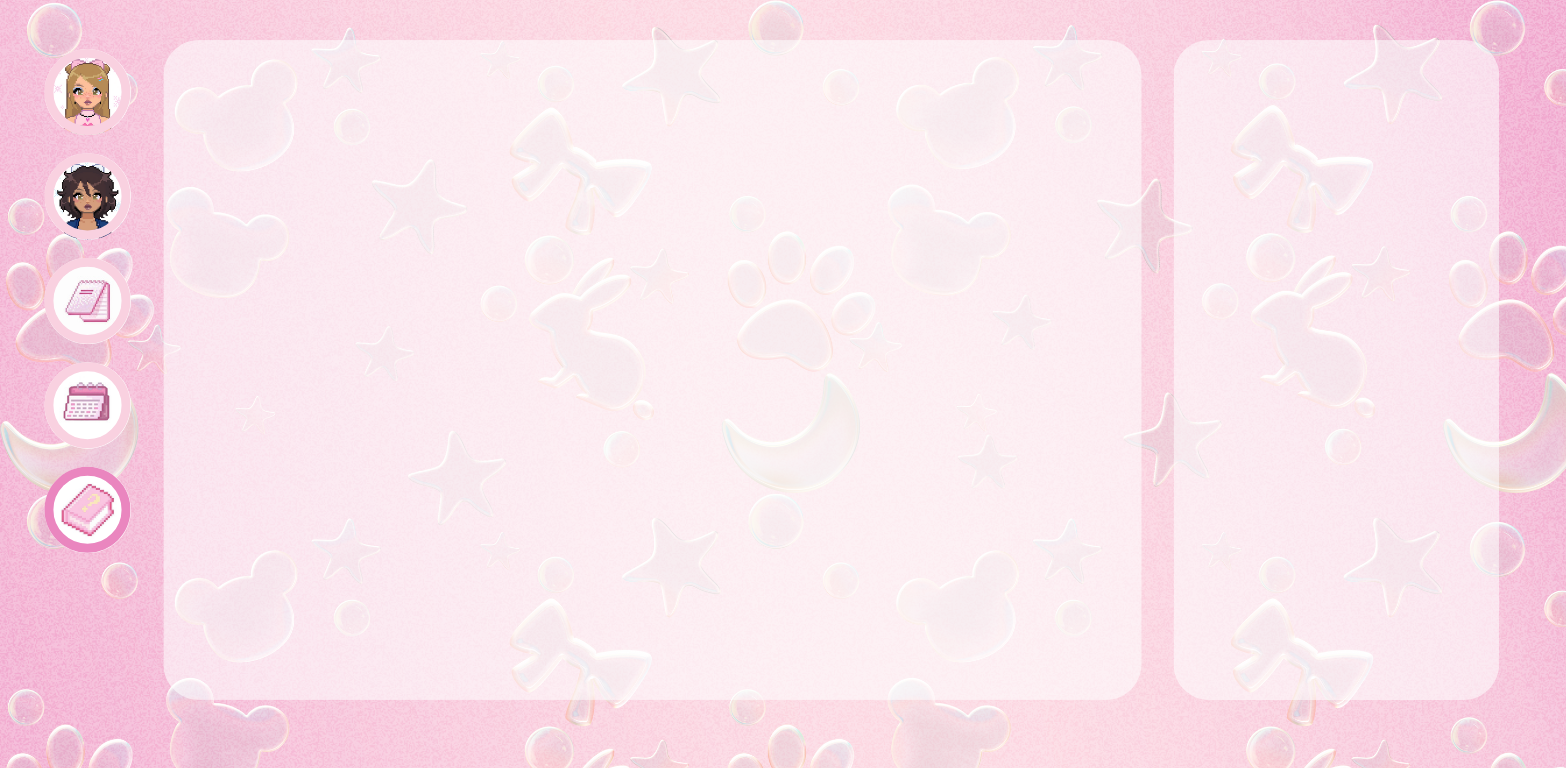
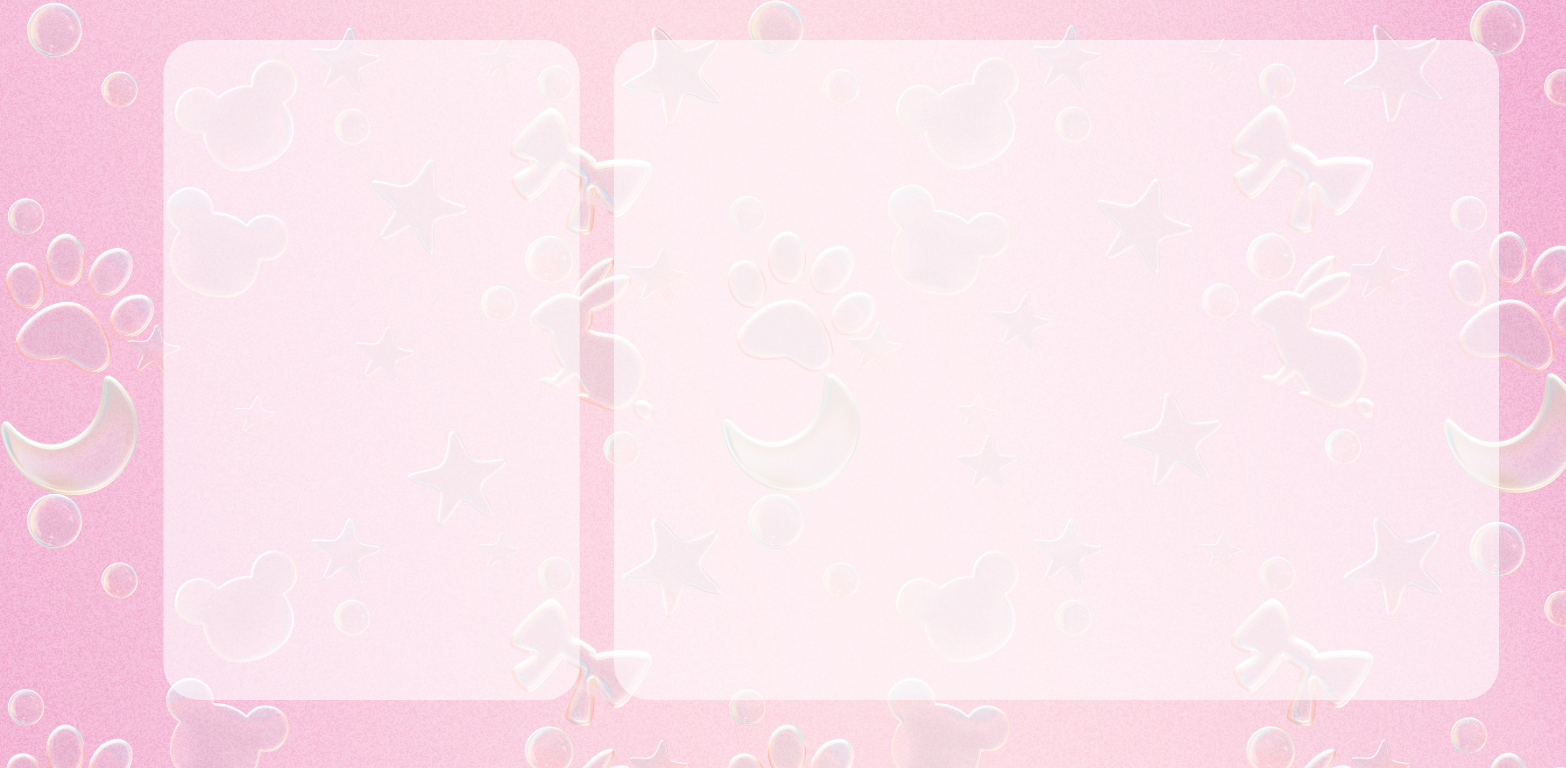
updated journal and chart

diff --git a/journal.js b/journal.js
@@ -1,0 +1,154 @@
+import {
+    initializeApp
+} from "https://www.gstatic.com/firebasejs/11.9.1/firebase-app.js";
+
+import {
+    getAuth,
+    onAuthStateChanged,
+    signOut,
+    GoogleAuthProvider
+} from "https://www.gstatic.com/firebasejs/11.9.1/firebase-auth.js";
+
+import {
+    getFirestore,
+    collection,
+    getDocs,
+    query,
+    where,
+    updateDoc,
+    serverTimestamp,
+    doc, deleteDoc, orderBy, limit
+} from "https://www.gstatic.com/firebasejs/11.9.1/firebase-firestore.js";
+
+const firebaseConfig = {
+    apiKey: "AIzaSyB-qQP6MciVV7dKTeeu-JoBnjOjFki_8wg",
+    authDomain: "junebestiebot.firebaseapp.com",
+    projectId: "junebestiebot",
+    storageBucket: "junebestiebot.firebasestorage.app",
+    messagingSenderId: "377203530674",
+    appId: "1:377203530674:web:2443d67ec3430f73e662ab",
+};
+
+const app = initializeApp(firebaseConfig);
+const auth = getAuth(app);
+const db = getFirestore(app);
+const provider = new GoogleAuthProvider();
+
+async function loadJournal() {
+    const userId = auth.currentUser.uid;
+    const todayDate = new Date().toISOString().split('T')[0];
+    const q = query(collection(db, "mood"), where("ID", "==", userId), where("date", "==", todayDate));
+    const querySnapshot = await getDocs(q);
+
+    const container = document.getElementById("dayOverview");
+    container.innerHTML = ""; // clear previous content
+
+    if (querySnapshot.empty) {
+        container.textContent = "No journal entry for today.";
+        return;
+    }
+
+    querySnapshot.forEach((docSnap) => {
+        const overview = docSnap.data();
+
+        const overviewEl = document.createElement("div");
+        overviewEl.classList = "moodJournal";
+
+        // Title
+        const title = document.createElement("h2");
+        title.textContent = "Today's Overview";
+        overviewEl.appendChild(title);
+
+        // Mood
+        const mood = document.createElement("p");
+        mood.innerHTML = `<strong>Emotional Stress:</strong> ${overview.emotionIntensity || "Not specified"}`;
+        overviewEl.appendChild(mood);
+
+        // Intensity
+        const intensity = document.createElement("p");
+        intensity.innerHTML = `<strong>Physical Stress:</strong> ${overview.physicalIntensity || "N/A"}`;
+        overviewEl.appendChild(intensity);
+
+        // Summary
+        const summary = document.createElement("p");
+        summary.innerHTML = `<strong>Day Summary:</strong> ${overview.daySummary || "No summary provided."}`;
+        overviewEl.appendChild(summary);
+
+        // Optional: timestamp
+        const time = document.createElement("p");
+        time.innerHTML = `<small>${overview.updatedAt?.toDate().toLocaleString() || ""}</small>`;
+        overviewEl.appendChild(time);
+
+        container.appendChild(overviewEl);
+
+    });
+}
+
+
+window.authSignOut = function () {
+    signOut(auth)
+        .then(() => {
+            window.location.href = "index.html";
+        })
+        .catch((error) => {
+            console.error("Sign out error:", error);
+        });
+};
+
+onAuthStateChanged(auth, (user) => {
+    if (user) {
+        console.log("✅ Logged in as:", user.email);
+        loadJournal()
+        moodData()
+    } else {
+        console.log("❌ No user logged in");
+        window.location.href = "index.html";
+    }
+});
+
+async function moodData(){
+    const q = query(
+        collection(db, "mood"),
+        where("ID", "==", auth.currentUser.uid),
+        orderBy("date", "asc"),
+        limit(30)
+    );
+
+    const snapshot = await getDocs(q);
+
+    const data = [];
+
+    snapshot.forEach((doc) =>{
+        const entry = doc.data();
+        data.push({date: entry.date, moodScore: entry.emotionIntensity});
+    });
+
+    drawMoodGraph(data);
+
+}
+
+function drawMoodGraph(){
+    const ctx = document.getElementById('myChart');
+
+    new Chart(ctx, {
+        type: 'line',
+        data: {
+            labels: data.map(d=>d.date),
+            datasets: [{
+                label: 'Mood Over Time',
+                data: data.map(d=> d.moodScore),
+                borderColor: '#ff6fa1',
+                fill: false,
+                tension: 0.3,
+            }]
+        },
+        options: {
+            scales: {
+                y: {
+                    suggestedMin: 1,
+                    suggestedMax: 10
+                }
+            }
+        }
+    });
+}

diff --git a/journalPage.html b/journalPage.html
@@ -6,6 +6,7 @@
     <title>Journal</title>
     <link rel="stylesheet" href="home.css" />
     <link rel="stylesheet" href="journal.css" />
+    <script src="https://cdn.jsdelivr.net/npm/chart.js"></script>
 </head>
 <body>
 <a href="home.html"> <div class="junie"> </div></a>
@@ -13,6 +14,12 @@
 <a href="listPage.html"> <div class="lists"> </div></a>
 <a href="calendarPage.html"> <div class="calendar"> </div></a>
 <a href="journalPage.html"> <div class="journal"> </div></a>
+
+<div id="dayOverview" class="moodJournal">
+    <div id="todayOverview"></div>
+</div>
+
+<canvas id="moodChart" width="400" height="200"></canvas>
 
 <button class="button" id="signOut" onclick="authSignOut()">Sign Out</button>
 <h3 id="errorMsg2"></h3>
@@ -23,6 +30,6 @@
 </div>
 
 
-<script type="module"></script>
+<script type="module" src="journal.js"></script>
 </body>
 </html>

diff --git a/journal.css b/journal.css
@@ -1,5 +1,5 @@
 body{
-    background-image: url("backgrounds/journal3.png");
+    background-image: url("backgrounds/journalPage.png");
     background-repeat: no-repeat;
     background-size: cover;              /* Fill screen */
     background-position: center center;
@@ -9,4 +9,15 @@ body{
 
 .journal{
     background-image: url("backgrounds/journalS.png");
+}
+
+.moodJournal{
+    position: absolute;
+    top: 10%;
+    left: 7.5%;
+    border-radius: 10px;
+    padding-left: 2%;
+    padding-right: 2%;
+    width: 45%;
+    background-color: rgba(253, 253, 253,0.5);
 }
